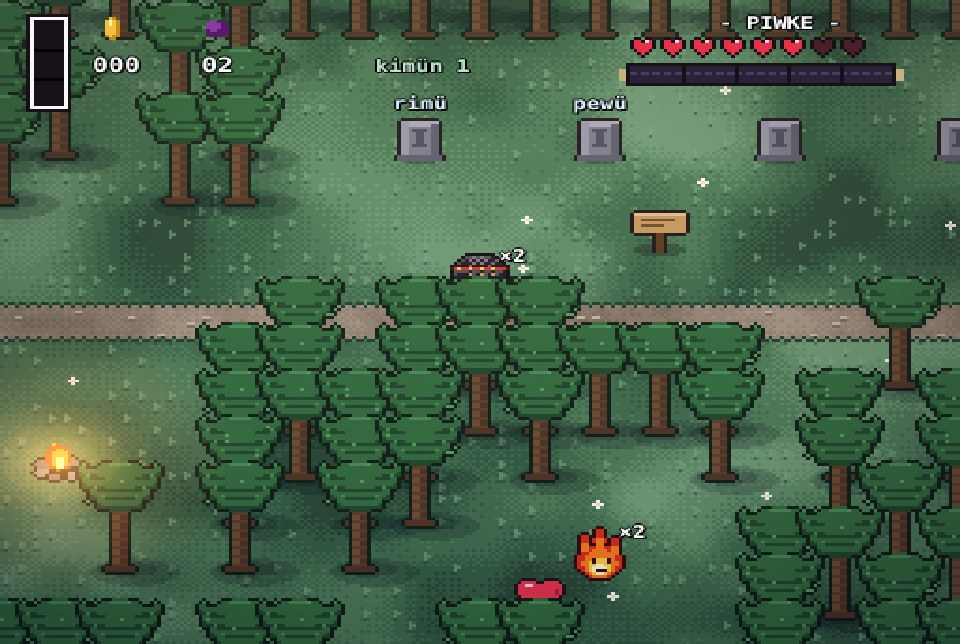
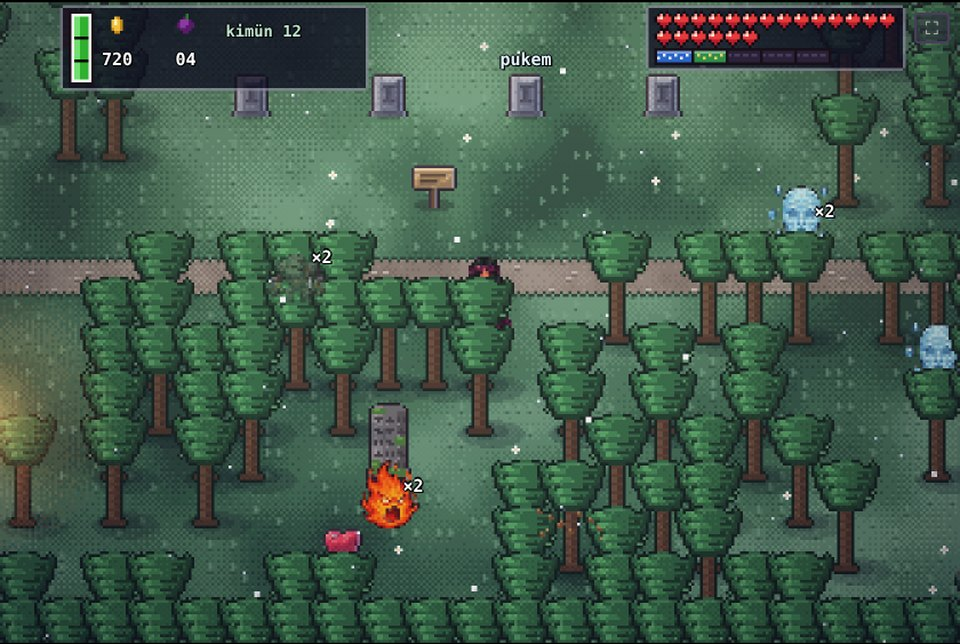
About page: screenshots retaken with the new graphics
Claude-Session: https://claude.ai/code/session_01HTUZe9QnhKfmVdpEdFr6Jn

diff --git a/acerca/index.html b/acerca/index.html
@@ -9,7 +9,7 @@
 <link rel="apple-touch-icon" href="../www/apple-touch-icon.png">
 <meta property="og:title" content="Kewün Newen">
 <meta property="og:description" content="Un RPG gratuito donde el poder es la lengua: cada golpe es un verbo en mapudungun bien conjugado. En español y en inglés, funciona sin conexión.">
-<meta property="og:image" content="https://brogers36.github.io/Kewun-ni-Newen/acerca/img/battle.jpg">
+<meta property="og:image" content="https://brogers36.github.io/Kewun-ni-Newen/acerca/img/battle.jpg?v=3">
 <title>Acerca de Kewün Newen, el RPG para aprender mapudungun</title>
 <link rel="canonical" href="https://brogers36.github.io/Kewun-ni-Newen/acerca/">
 <meta name="description" content="Un RPG gratuito donde el poder es la lengua: la gramática del mapudungun es el sistema de batalla. 5 regiones y la ciudad, 87 mapas, 56 criaturas y jefes y 54 melodías originales. Funciona sin conexión.">
@@ -151,7 +151,7 @@ footer{padding-block:28px 40px;color:var(--muted);font-size:.9rem;display:flex;f
         <span><b>54</b><span class="es">melodías originales</span><span class="en">original tunes</span></span>
       </div>
     </div>
-    <div class="shot"><img src="img/battle.jpg" alt="Millaray en batalla contra un chonchon y un laftrache en la costa: acaba de armar en mapudungun la orden «Amutunge!», ¡vete!" width="960" height="644"></div>
+    <div class="shot"><img src="img/battle.jpg?v=3" alt="Millaray en batalla contra un chonchon y un laftrache en la costa: acaba de armar en mapudungun la orden «Amutunge!», ¡vete!" width="960" height="644"></div>
   </section>
   </main>
 </div>
@@ -173,7 +173,7 @@ footer{padding-block:28px 40px;color:var(--muted);font-size:.9rem;display:flex;f
 
     <div style="margin-top:clamp(40px,6vw,64px)">
       <div class="feat">
-        <div class="shot"><img src="img/title.jpg" alt="Pantalla de inicio de Kewün Newen: Millaray, Ayelen, Llanka y Kallfürüngi frente al mar, bajo el volcán" width="960" height="644" loading="lazy"></div>
+        <div class="shot"><img src="img/title.jpg?v=3" alt="Pantalla de inicio de Kewün Newen: Millaray, Ayelen, Llanka y Kallfürüngi frente al mar, bajo el volcán" width="960" height="644" loading="lazy"></div>
         <div class="copy">
           <h3><span class="es">Órdenes que se arman, no que se aprietan</span><span class="en">Orders you build, not buttons you press</span></h3>
           <p class="muted"><span class="es">En cada combate eliges una raíz verbal y la conjugas: la terminación decide a quién va la orden (a uno, a dos o a todos) y <span class="mapu">-kil-</span> la vuelve negativa. <span class="mapu">Amutunge</span>, «¡vete!», espanta a un enemigo; <span class="mapu">amutukilmün</span>, «¡no se vayan!», es otra historia. El juego enseña catorce raíces, y cada jefe exige usarlas con cabeza.</span><span class="en">In every battle you pick a verb root and conjugate it: the ending decides who the order goes to (one, two or everyone), and <span class="mapu">-kil-</span> makes it negative. <span class="mapu">Amutunge</span>, “go away!”, drives an enemy off; <span class="mapu">amutukilmün</span>, “don't you all leave!”, is a different story. The game teaches fourteen roots, and every boss makes you use them wisely.</span></p>
@@ -185,7 +185,7 @@ footer{padding-block:28px 40px;color:var(--muted);font-size:.9rem;display:flex;f
       </div>
 
       <div class="feat">
-        <div class="shot"><img src="img/pewen.jpg" alt="Bosque de pewen en la cordillera, con araucarias y un cherufe rondando" width="960" height="644" loading="lazy"></div>
+        <div class="shot"><img src="img/pewen.jpg?v=3" alt="Bosque de pewen en la cordillera, con araucarias y un cherufe rondando" width="960" height="644" loading="lazy"></div>
         <div class="copy">
           <h3><span class="es">Un viaje por el Wallmapu</span><span class="en">A journey across Wallmapu</span></h3>
           <p class="muted"><span class="es">Cinco regiones, cada una con sus colores, sus árboles, su música propia y su ngen dormido: la costa lafkenche, los valles nagche, la cordillera pewenche con sus pewen, el sur williche y la pampa del Puelmapu. En el camino esperan criaturas del folclor mapuche: el chonchon, el witranalwe, el cherufe, el Kaleuche, el walichu.</span><span class="en">Five regions, each with its own colours, trees, music and sleeping ngen: the Lafkenche coast, the Nagche valleys, the Pewenche cordillera with its pewen, the Williche south and the Puelmapu pampa. Along the way wait creatures from Mapuche folklore: the chonchon, the witranalwe, the cherufe, the Kaleuche, the walichu.</span></p>
@@ -199,7 +199,7 @@ footer{padding-block:28px 40px;color:var(--muted);font-size:.9rem;display:flex;f
       </div>
 
       <div class="feat">
-        <div class="shot"><img src="img/lof.jpg" alt="Millaray en un lof lafkenche con ruka, cancha de palin y gente conversando en mapudungun" width="960" height="644" loading="lazy"></div>
+        <div class="shot"><img src="img/lof.jpg?v=3" alt="Millaray en un lof lafkenche con ruka, cancha de palin y gente conversando en mapudungun" width="960" height="644" loading="lazy"></div>
         <div class="copy">
           <h3><span class="es">Pueblos vivos, konew y mini misiones</span><span class="en">Living villages, konew and side quests</span></h3>
           <p class="muted"><span class="es">En los lof la gente juega al palin, teje en el witral, cocina y estudia; el pentukuwün con el lonko se hace como corresponde. Hay dieciocho konew (adivinanzas) que terminan con «Chem am ta tatey?», tiendas donde se responde en mapudungun, y secretos que premian con gramática nueva que después sirve en combate. En cada lof alguien joven quiere conversar contigo para practicar, y en cada tierra espera una <span class="mapu">kuyfi chillka</span>, una piedra antigua tallada con una lección de mapudungun: quien despierta las seis recibe un trarilongko que protege como ningún otro. Además, cada lof tiene su <span class="mapu">trawün</span>, una ruka donde un kimeltuchefe da dos lecciones de verdad (las personas del verbo, los números, la familia, el tiempo...), y se puede jugar un partido de palin en su propia cancha, gritando las jugadas en mapudungun, o hacer <span class="mapu">trafkintu</span> con precios en números mapuche.</span><span class="en">In the lof people play palin, weave at the witral, cook and study; the pentukuwün with the lonko is done properly. There are eighteen konew (riddles) ending in “Chem am ta tatey?”, shops answered in Mapudungun, and secrets that reward you with new grammar you then use in battle. In every lof a young person wants to practise conversation with you, and in every land waits a <span class="mapu">kuyfi chillka</span>, an ancient stone carved with a Mapudungun lesson: whoever wakes all six receives a trarilongko that protects like no other. Each lof also has its <span class="mapu">trawün</span>, a ruka where a kimeltuchefe gives two real lessons (verb persons, numbers, family, time...), and you can play a palin match on its own field, calling the plays in Mapudungun, or do <span class="mapu">trafkintu</span> with prices in Mapuche numbers.</span></p>
@@ -207,7 +207,7 @@ footer{padding-block:28px 40px;color:var(--muted);font-size:.9rem;display:flex;f
       </div>
 
       <div class="feat">
-        <div class="shot"><img src="img/dungeon.jpg" alt="Millaray explora una caverna con antorchas, piedras para empujar y puertas con reja" width="960" height="644" loading="lazy"></div>
+        <div class="shot"><img src="img/dungeon.jpg?v=3" alt="Millaray explora una caverna con antorchas, piedras para empujar y puertas con reja" width="960" height="644" loading="lazy"></div>
         <div class="copy">
           <h3><span class="es">Cavernas, puzzles y minijefes</span><span class="en">Dungeons, puzzles and minibosses</span></h3>
           <p class="muted"><span class="es">Cada región tiene su caverna, y ninguna se parece a otra: piedras que se empujan y se devuelven, acertijos de mapudungun que se resuelven pensando (la chillka de conjugación ayuda, pero no regala la respuesta), minijefes y un kütral donde recuperar fuerzas.</span><span class="en">Every region has its dungeon, and no two are alike: stones you push and pull back, Mapudungun puzzles you solve by thinking (the conjugation chillka helps, but gives nothing away), minibosses, and a kütral to recover your strength.</span></p>
@@ -215,14 +215,14 @@ footer{padding-block:28px 40px;color:var(--muted);font-size:.9rem;display:flex;f
       </div>
 
       <div class="feat">
-        <div class="shot"><img src="img/boss.jpg?v=2" alt="Ayelen frente a Elëngasëm, un gigante de piedra y sal pintado a mano, rodeado de barreras de luz en la pampa" width="960" height="644" loading="lazy"></div>
+        <div class="shot"><img src="img/boss.jpg?v=3" alt="Ayelen frente a Elëngasëm, un gigante de piedra y cristales de sal, rodeado de barreras de luz en la pampa" width="960" height="644" loading="lazy"></div>
         <div class="copy">
           <h3><span class="es">Y más allá de la niebla...</span><span class="en">And beyond the fog...</span></h3>
           <p class="muted"><span class="es">Despertados los cinco ngen, queda lo que la niebla esconde: Ti Fütra Ngoymatulfe, el gran olvido. Jefes secretos que se encuentran explorando, barreras de luz que solo la gramática rompe, un final en varias etapas que cierra con su propia película, <span class="mapu">Kelluaeyu</span>, y, para quien busca de verdad, regiones enteras que no aparecen en ningún mapa. No contamos más. Y al terminar, el modo <span class="mapu">weichafe</span>: vuelves a empezar con tu kimün y tus cosas, contra wekufü que crecen contigo y pruebas sin pistas.</span><span class="en">Once the five ngen are awake, what the fog hides remains: Ti Fütra Ngoymatulfe, the great forgetting. Secret bosses found by exploring, light barriers only grammar can break, a multi-stage finale that closes with its own film, <span class="mapu">Kelluaeyu</span>, and, for those who truly search, whole regions that appear on no map. We'll say no more. And once you finish, <span class="mapu">weichafe</span> mode: start again with your kimün and your things, against wekufü that grow with you and trials with no hints.</span></p>
         </div>
       </div>
       <div class="feat">
-        <div class="shot"><img src="img/waria.jpg" alt="Millaray en un andén del metro de Santiago frente a Ngamleftripael, una araña acorazada con cara de calavera y patas de los colores de las líneas del metro" width="960" height="644" loading="lazy"></div>
+        <div class="shot"><img src="img/waria.jpg?v=3" alt="Millaray en un andén del metro de Santiago frente a Ngamleftripael, una araña acorazada con cara de calavera y patas de los colores de las líneas del metro" width="960" height="644" loading="lazy"></div>
         <div class="copy">
           <h3><span class="es">Y después, la waria</span><span class="en">And then, the city</span></h3>
           <p class="muted"><span class="es">El viaje no termina en el campo. Un acto entero transcurre en Santiago, donde vive buena parte del pueblo mapuche y donde la lengua no se pierde por odio, sino por desgaste. Tres silencios la tapan: el <span class="mapu">ngoyngoyün</span> de la feria, el ruido que no deja oír nada; la <span class="mapu">ngamleftripael</span>, la gente mapuche repartida por la ciudad, cada uno creyéndose solo; y el <span class="mapu">mapudungukenoael fillantü</span>, la costumbre de dejar la lengua siempre para después.</span><span class="en">The journey does not end in the countryside. A whole act takes place in Santiago, home to a large share of the Mapuche people, where the language is lost not to hatred but to wear. Three silences cover it: the <span class="mapu">ngoyngoyün</span> of the street market, the noise that drowns everything out; the <span class="mapu">ngamleftripael</span>, Mapuche people scattered across the city, each thinking they are alone; and the <span class="mapu">mapudungukenoael fillantü</span>, the habit of always leaving the language for later.</span></p>
@@ -234,7 +234,7 @@ footer{padding-block:28px 40px;color:var(--muted);font-size:.9rem;display:flex;f
         </div>
       </div>
       <div class="feat">
-        <div class="shot"><img src="img/olvido.jpg" alt="Millaray en el camino del mar convertido en gris por el olvido; alrededor de una piedra tallada el color vuelve a aparecer" width="960" height="644" loading="lazy"></div>
+        <div class="shot"><img src="img/olvido.jpg?v=3" alt="Millaray en una tierra gris de Ngoyman mapu, robada por el olvido, junto a una persona cautiva que pide ayuda" width="960" height="644" loading="lazy"></div>
         <div class="copy">
           <h3><span class="es">Y, al final, lo que olvidaste</span><span class="en">And, at the very end, what you forgot</span></h3>
           <p class="muted"><span class="es">Quien encuentre todos los secretos, hasta el último, verá algo raro en el primer camino del juego: su sombra ya no le sigue los pasos. Detrás de ella hay un lugar gris donde va a parar todo lo que se olvida, y que solo recupera el color palabra por palabra. Al fondo espera la sombra, que conoce cada respuesta que fallaste en el viaje y te las va a preguntar todas. Quien la vence se gana un título que no se compra: <span class="mapu">kimche</span>.</span><span class="en">Whoever finds every secret, down to the last one, will notice something strange on the game's very first road: their shadow no longer follows them. Behind it lies a grey place where everything forgotten ends up, and which only gets its colour back word by word. At the far end waits the shadow, which knows every answer you missed on the journey and will ask you all of them. Whoever beats it earns a title that cannot be bought: <span class="mapu">kimche</span>.</span></p>
